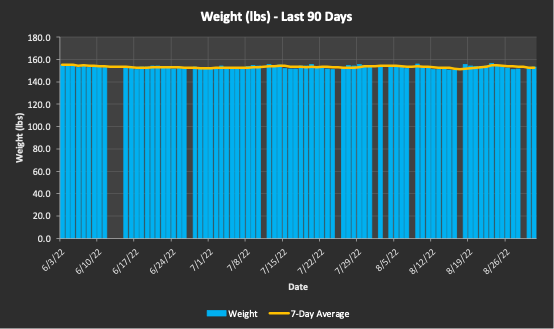
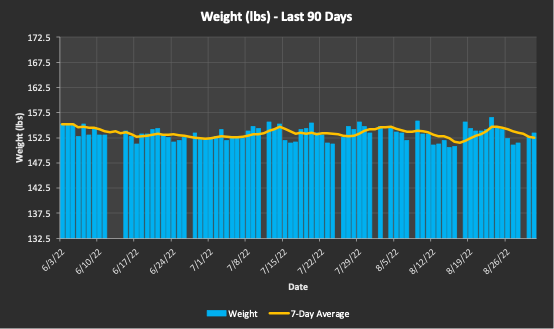
1

diff --git a/index.html b/index.html
@@ -33,7 +33,7 @@ body.viewer-open{overflow:hidden}
 <header class="header"><h1>Training Dashboard</h1></header>
 <div class="refresh-card" role="button" tabindex="0" onclick="refreshDashboard()" onkeydown="if(event.key==='Enter'||event.key===' '){event.preventDefault();refreshDashboard();}">
 <div class="refresh-title" id="refresh-label">&#8635; Refresh dashboard</div>
-<div class="refresh-time"><strong>Last update:</strong> 2026-09-01 11:24:18</div></div>
+<div class="refresh-time"><strong>Last update:</strong> 2026-09-01 11:31:50</div></div>
 <input class="tab-input" type="radio" name="tabs" id="tab-overview" checked>
 <input class="tab-input" type="radio" name="tabs" id="tab-training">
 <input class="tab-input" type="radio" name="tabs" id="tab-load">
@@ -48,88 +48,88 @@ body.viewer-open{overflow:hidden}
 <article class="card">
 <div class="card-title">Current Training Status</div>
 <div class="image-wrap">
-<img class="dashboard-image zoomable-image" src="images/CurrentTrainingStatus.png?v=20260901112418" alt="Current Training Status" role="button" tabindex="0" onclick="openImageViewer(this)" onkeydown="if(event.key==='Enter'||event.key===' '){event.preventDefault();openImageViewer(this);}">
+<img class="dashboard-image zoomable-image" src="images/CurrentTrainingStatus.png?v=20260901113150" alt="Current Training Status" role="button" tabindex="0" onclick="openImageViewer(this)" onkeydown="if(event.key==='Enter'||event.key===' '){event.preventDefault();openImageViewer(this);}">
 </div></article>
 <article class="card">
 <div class="card-title">Last 4 Weeks</div>
 <div class="image-wrap">
-<img class="dashboard-image zoomable-image" src="images/Last4Weeks.png?v=20260901112418" alt="Last 4 Weeks" role="button" tabindex="0" onclick="openImageViewer(this)" onkeydown="if(event.key==='Enter'||event.key===' '){event.preventDefault();openImageViewer(this);}">
+<img class="dashboard-image zoomable-image" src="images/Last4Weeks.png?v=20260901113150" alt="Last 4 Weeks" role="button" tabindex="0" onclick="openImageViewer(this)" onkeydown="if(event.key==='Enter'||event.key===' '){event.preventDefault();openImageViewer(this);}">
 </div></article>
 <article class="card">
 <div class="card-title">Upcoming Races</div>
 <div class="image-wrap">
-<img class="dashboard-image zoomable-image" src="images/UpcomingRaces.png?v=20260901112418" alt="Upcoming Races" role="button" tabindex="0" onclick="openImageViewer(this)" onkeydown="if(event.key==='Enter'||event.key===' '){event.preventDefault();openImageViewer(this);}">
+<img class="dashboard-image zoomable-image" src="images/UpcomingRaces.png?v=20260901113150" alt="Upcoming Races" role="button" tabindex="0" onclick="openImageViewer(this)" onkeydown="if(event.key==='Enter'||event.key===' '){event.preventDefault();openImageViewer(this);}">
 </div></article>
 <article class="card">
 <div class="card-title">PRs &amp; Season Bests</div>
 <div class="image-wrap">
-<img class="dashboard-image zoomable-image" src="images/PRs.png?v=20260901112418" alt="PRs &amp; Season Bests" role="button" tabindex="0" onclick="openImageViewer(this)" onkeydown="if(event.key==='Enter'||event.key===' '){event.preventDefault();openImageViewer(this);}">
+<img class="dashboard-image zoomable-image" src="images/PRs.png?v=20260901113150" alt="PRs &amp; Season Bests" role="button" tabindex="0" onclick="openImageViewer(this)" onkeydown="if(event.key==='Enter'||event.key===' '){event.preventDefault();openImageViewer(this);}">
 </div></article>
 </div></section>
 <section class="panel" id="training"><div class="grid two">
 <article class="card">
 <div class="card-title">My Training</div>
 <div class="image-wrap">
-<img class="dashboard-image zoomable-image" src="images/chtMyTraining.png?v=20260901112418" alt="My Training" role="button" tabindex="0" onclick="openImageViewer(this)" onkeydown="if(event.key==='Enter'||event.key===' '){event.preventDefault();openImageViewer(this);}">
+<img class="dashboard-image zoomable-image" src="images/chtMyTraining.png?v=20260901113150" alt="My Training" role="button" tabindex="0" onclick="openImageViewer(this)" onkeydown="if(event.key==='Enter'||event.key===' '){event.preventDefault();openImageViewer(this);}">
 </div></article>
 <article class="card">
 <div class="card-title">Weekly TSS</div>
 <div class="image-wrap">
-<img class="dashboard-image zoomable-image" src="images/chtwklyTSS.png?v=20260901112418" alt="Weekly TSS" role="button" tabindex="0" onclick="openImageViewer(this)" onkeydown="if(event.key==='Enter'||event.key===' '){event.preventDefault();openImageViewer(this);}">
+<img class="dashboard-image zoomable-image" src="images/chtwklyTSS.png?v=20260901113150" alt="Weekly TSS" role="button" tabindex="0" onclick="openImageViewer(this)" onkeydown="if(event.key==='Enter'||event.key===' '){event.preventDefault();openImageViewer(this);}">
 </div></article>
 <article class="card">
 <div class="card-title">Run Training</div>
 <div class="image-wrap">
-<img class="dashboard-image zoomable-image" src="images/chtRunTraining.png?v=20260901112418" alt="Run Training" role="button" tabindex="0" onclick="openImageViewer(this)" onkeydown="if(event.key==='Enter'||event.key===' '){event.preventDefault();openImageViewer(this);}">
+<img class="dashboard-image zoomable-image" src="images/chtRunTraining.png?v=20260901113150" alt="Run Training" role="button" tabindex="0" onclick="openImageViewer(this)" onkeydown="if(event.key==='Enter'||event.key===' '){event.preventDefault();openImageViewer(this);}">
 </div></article>
 <article class="card">
 <div class="card-title">Bike Training</div>
 <div class="image-wrap">
-<img class="dashboard-image zoomable-image" src="images/chtBikeTraining.png?v=20260901112418" alt="Bike Training" role="button" tabindex="0" onclick="openImageViewer(this)" onkeydown="if(event.key==='Enter'||event.key===' '){event.preventDefault();openImageViewer(this);}">
+<img class="dashboard-image zoomable-image" src="images/chtBikeTraining.png?v=20260901113150" alt="Bike Training" role="button" tabindex="0" onclick="openImageViewer(this)" onkeydown="if(event.key==='Enter'||event.key===' '){event.preventDefault();openImageViewer(this);}">
 </div></article>
 <article class="card">
 <div class="card-title">Swim Training</div>
 <div class="image-wrap">
-<img class="dashboard-image zoomable-image" src="images/chtSwimTraining.png?v=20260901112418" alt="Swim Training" role="button" tabindex="0" onclick="openImageViewer(this)" onkeydown="if(event.key==='Enter'||event.key===' '){event.preventDefault();openImageViewer(this);}">
+<img class="dashboard-image zoomable-image" src="images/chtSwimTraining.png?v=20260901113150" alt="Swim Training" role="button" tabindex="0" onclick="openImageViewer(this)" onkeydown="if(event.key==='Enter'||event.key===' '){event.preventDefault();openImageViewer(this);}">
 </div></article>
 <article class="card">
 <div class="card-title">Strength Training</div>
 <div class="image-wrap">
-<img class="dashboard-image zoomable-image" src="images/chtStrengthTraining.png?v=20260901112418" alt="Strength Training" role="button" tabindex="0" onclick="openImageViewer(this)" onkeydown="if(event.key==='Enter'||event.key===' '){event.preventDefault();openImageViewer(this);}">
+<img class="dashboard-image zoomable-image" src="images/chtStrengthTraining.png?v=20260901113150" alt="Strength Training" role="button" tabindex="0" onclick="openImageViewer(this)" onkeydown="if(event.key==='Enter'||event.key===' '){event.preventDefault();openImageViewer(this);}">
 </div></article>
 </div></section>
 <section class="panel" id="load"><div class="grid two">
 <article class="card">
 <div class="card-title">CTL Composition</div>
 <div class="image-wrap">
-<img class="dashboard-image zoomable-image" src="images/chtCTLComposition.png?v=20260901112418" alt="CTL Composition" role="button" tabindex="0" onclick="openImageViewer(this)" onkeydown="if(event.key==='Enter'||event.key===' '){event.preventDefault();openImageViewer(this);}">
+<img class="dashboard-image zoomable-image" src="images/chtCTLComposition.png?v=20260901113150" alt="CTL Composition" role="button" tabindex="0" onclick="openImageViewer(this)" onkeydown="if(event.key==='Enter'||event.key===' '){event.preventDefault();openImageViewer(this);}">
 </div></article>
 <article class="card">
 <div class="card-title">emaACT Composition</div>
 <div class="image-wrap">
-<img class="dashboard-image zoomable-image" src="images/chtEmaACTComposition.png?v=20260901112418" alt="emaACT Composition" role="button" tabindex="0" onclick="openImageViewer(this)" onkeydown="if(event.key==='Enter'||event.key===' '){event.preventDefault();openImageViewer(this);}">
+<img class="dashboard-image zoomable-image" src="images/chtEmaACTComposition.png?v=20260901113150" alt="emaACT Composition" role="button" tabindex="0" onclick="openImageViewer(this)" onkeydown="if(event.key==='Enter'||event.key===' '){event.preventDefault();openImageViewer(this);}">
 </div></article>
 <article class="card">
 <div class="card-title">CTL vs ACT</div>
 <div class="image-wrap">
-<img class="dashboard-image zoomable-image" src="images/chtCTLvsACT.png?v=20260901112418" alt="CTL vs ACT" role="button" tabindex="0" onclick="openImageViewer(this)" onkeydown="if(event.key==='Enter'||event.key===' '){event.preventDefault();openImageViewer(this);}">
+<img class="dashboard-image zoomable-image" src="images/chtCTLvsACT.png?v=20260901113150" alt="CTL vs ACT" role="button" tabindex="0" onclick="openImageViewer(this)" onkeydown="if(event.key==='Enter'||event.key===' '){event.preventDefault();openImageViewer(this);}">
 </div></article>
 <article class="card">
 <div class="card-title">TSB &amp; Load Ratio</div>
 <div class="image-wrap">
-<img class="dashboard-image zoomable-image" src="images/chtTSBLoadRatio.png?v=20260901112418" alt="TSB &amp; Load Ratio" role="button" tabindex="0" onclick="openImageViewer(this)" onkeydown="if(event.key==='Enter'||event.key===' '){event.preventDefault();openImageViewer(this);}">
+<img class="dashboard-image zoomable-image" src="images/chtTSBLoadRatio.png?v=20260901113150" alt="TSB &amp; Load Ratio" role="button" tabindex="0" onclick="openImageViewer(this)" onkeydown="if(event.key==='Enter'||event.key===' '){event.preventDefault();openImageViewer(this);}">
 </div></article>
 </div></section>
 <section class="panel" id="health"><div class="grid two">
 <article class="card">
 <div class="card-title">Sleep Time</div>
 <div class="image-wrap">
-<img class="dashboard-image zoomable-image" src="images/chtSleepTime.png?v=20260901112418" alt="Sleep Time" role="button" tabindex="0" onclick="openImageViewer(this)" onkeydown="if(event.key==='Enter'||event.key===' '){event.preventDefault();openImageViewer(this);}">
+<img class="dashboard-image zoomable-image" src="images/chtSleepTime.png?v=20260901113150" alt="Sleep Time" role="button" tabindex="0" onclick="openImageViewer(this)" onkeydown="if(event.key==='Enter'||event.key===' '){event.preventDefault();openImageViewer(this);}">
 </div></article>
 <article class="card">
 <div class="card-title">Weight</div>
 <div class="image-wrap">
-<img class="dashboard-image zoomable-image" src="images/chtWeight.png?v=20260901112418" alt="Weight" role="button" tabindex="0" onclick="openImageViewer(this)" onkeydown="if(event.key==='Enter'||event.key===' '){event.preventDefault();openImageViewer(this);}">
+<img class="dashboard-image zoomable-image" src="images/chtWeight.png?v=20260901113150" alt="Weight" role="button" tabindex="0" onclick="openImageViewer(this)" onkeydown="if(event.key==='Enter'||event.key===' '){event.preventDefault();openImageViewer(this);}">
 </div></article>
 </div></section>
 </main>
